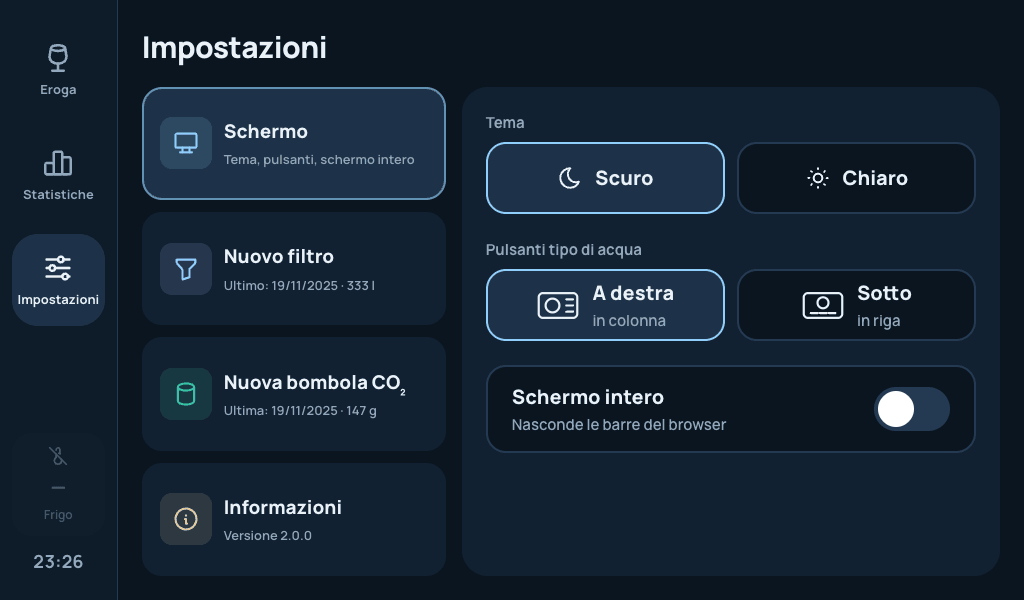
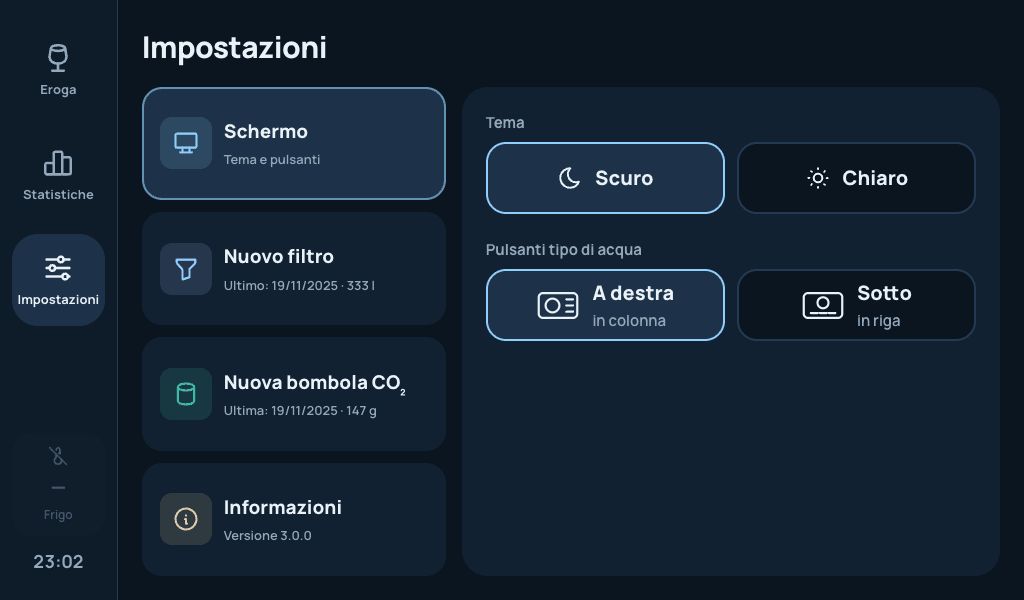
refactor: drop the full screen switch
The kiosk browser already runs full screen, so the Schermo intero switch
in the settings had nothing left to do.

diff --git a/src/components/client/settings/ScreenPanel.test.tsx b/src/components/client/settings/ScreenPanel.test.tsx
@@ -1,5 +1,4 @@
 import { useMantineColorScheme } from "@mantine/core";
-import { useFullscreen } from "@mantine/hooks";
 import { render, screen } from "@testing-library/react";
 import userEvent from "@testing-library/user-event";
 import { afterEach, beforeEach, describe, expect, test, vi } from "vitest";
@@ -8,23 +7,18 @@ import ScreenPanel from "@/components/client/settings/ScreenPanel";
 import { BUTTON_LAYOUT_ATTRIBUTE, BUTTON_LAYOUT_STORAGE_KEY } from "@/service/buttonLayout";
 
 vi.mock("@mantine/core", () => ({ useMantineColorScheme: vi.fn() }));
-vi.mock("@mantine/hooks", () => ({ useFullscreen: vi.fn() }));
 
 const setColorScheme = vi.fn();
-const toggleFullscreen = vi.fn();
 
-const mockScreen = (colorScheme: "dark" | "light", fullscreen: boolean) => {
+const mockScreen = (colorScheme: "dark" | "light") => {
     vi.mocked(useMantineColorScheme).mockReturnValue(
         { colorScheme, setColorScheme } as unknown as ReturnType<typeof useMantineColorScheme>
-    );
-    vi.mocked(useFullscreen).mockReturnValue(
-        { fullscreen, toggle: toggleFullscreen } as unknown as ReturnType<typeof useFullscreen>
     );
 };
 
 describe("ScreenPanel", () => {
     beforeEach(() => {
-        mockScreen("dark", false);
+        mockScreen("dark");
     });
 
     afterEach(() => {
@@ -54,23 +48,18 @@ describe("ScreenPanel", () => {
         expect(localStorage.getItem(BUTTON_LAYOUT_STORAGE_KEY)).toBe("row");
     });
 
-    test("toggles full screen", async () => {
-        const user = userEvent.setup();
+    test("marks the light theme when it is the current one", () => {
+        mockScreen("light");
         render(<ScreenPanel />);
 
-        const toggle = screen.getByRole("switch", { name: "Schermo intero Nasconde le barre del browser" });
-        expect(screen.getByRole("button", { name: "A destra in colonna" })).toBeInTheDocument();
-        expect(toggle).toHaveAttribute("aria-checked", "false");
-        await user.click(toggle);
-
-        expect(toggleFullscreen).toHaveBeenCalledOnce();
+        expect(screen.getByRole("button", { name: "Chiaro" })).toHaveAttribute("aria-pressed", "true");
+        expect(screen.getByRole("button", { name: "Scuro" })).toHaveAttribute("aria-pressed", "false");
     });
 
-    test("shows full screen as on when it already is", () => {
-        mockScreen("light", true);
+    test("offers no full screen switch: the kiosk browser is already full screen", () => {
         render(<ScreenPanel />);
 
-        expect(screen.getByRole("switch", { name: /Schermo intero/ })).toHaveAttribute("aria-checked", "true");
-        expect(screen.getByRole("button", { name: "Chiaro" })).toHaveAttribute("aria-pressed", "true");
+        expect(screen.queryByRole("switch")).not.toBeInTheDocument();
+        expect(screen.queryByText(/Schermo intero/)).not.toBeInTheDocument();
     });
 });

diff --git a/src/components/client/settings/ScreenPanel.module.css b/src/components/client/settings/ScreenPanel.module.css
@@ -27,11 +27,13 @@
     gap: var(--kiosk-space-3);
 }
 
-.choice,
-.switchRow {
+.choice {
+    min-height: 4.5rem;
     display: flex;
     align-items: center;
+    justify-content: center;
     gap: var(--kiosk-space-3);
+    padding: 0 var(--kiosk-space-4);
     box-sizing: border-box;
     border: 2px solid var(--kiosk-line);
     border-radius: var(--kiosk-radius-md);
@@ -45,24 +47,16 @@
     transition: border-color 150ms ease-out, background-color 150ms ease-out, transform 100ms ease-out;
 }
 
-.choice {
-    min-height: 4.5rem;
-    justify-content: center;
-    padding: 0 var(--kiosk-space-4);
-}
-
 .choice[aria-pressed="true"] {
     border-color: var(--kiosk-water-fredda-strong);
     background: var(--kiosk-surface-active);
 }
 
-.choice:active,
-.switchRow:active {
+.choice:active {
     transform: scale(0.98);
 }
 
-.choice:focus-visible,
-.switchRow:focus-visible {
+.choice:focus-visible {
     outline: 3px solid var(--kiosk-water-fredda-strong);
     outline-offset: 2px;
 }
@@ -96,41 +90,6 @@
     color: var(--kiosk-text-muted);
 }
 
-.switchRow {
-    min-height: 5.5rem;
-    justify-content: space-between;
-    padding: 0 var(--kiosk-space-5);
-}
-
-.switch {
-    flex-shrink: 0;
-    position: relative;
-    width: 4.75rem;
-    height: 2.75rem;
-    border-radius: var(--kiosk-radius-pill);
-    background: var(--kiosk-line);
-    transition: background-color 200ms ease-out;
-}
-
-.switchRow[aria-checked="true"] .switch {
-    background: var(--kiosk-water-frizzante);
-}
-
-.knob {
-    position: absolute;
-    top: 0.25rem;
-    left: 0.25rem;
-    width: 2.25rem;
-    aspect-ratio: 1;
-    border-radius: 50%;
-    background: #FFFFFF;
-    transition: transform 200ms ease-out;
-}
-
-.switchRow[aria-checked="true"] .knob {
-    transform: translateX(2rem);
-}
-
 @media (max-height: 34rem) {
     .panel {
         gap: var(--kiosk-space-3);
@@ -139,17 +98,10 @@
     .choice {
         min-height: 3.75rem;
     }
-
-    .switchRow {
-        min-height: 4.25rem;
-    }
 }
 
 @media (prefers-reduced-motion: reduce) {
-    .choice,
-    .switchRow,
-    .switch,
-    .knob {
+    .choice {
         transition: none;
     }
 }

diff --git a/src/components/client/settings/SettingsScreen.test.tsx b/src/components/client/settings/SettingsScreen.test.tsx
@@ -1,5 +1,4 @@
 import { useMantineColorScheme } from "@mantine/core";
-import { useFullscreen } from "@mantine/hooks";
 import { render, screen } from "@testing-library/react";
 import userEvent from "@testing-library/user-event";
 import { useRouter } from "next/navigation";
@@ -9,7 +8,6 @@ import SettingsScreen from "@/components/client/settings/SettingsScreen";
 import { insertFilter, insertTank } from "@/service/db";
 
 vi.mock("@mantine/core", () => ({ useMantineColorScheme: vi.fn() }));
-vi.mock("@mantine/hooks", () => ({ useFullscreen: vi.fn() }));
 vi.mock("next/navigation", () => ({ useRouter: vi.fn() }));
 vi.mock("@/service/db", () => ({ insertFilter: vi.fn(), insertTank: vi.fn() }));
 
@@ -37,9 +35,6 @@ describe("SettingsScreen", () => {
         vi.mocked(useMantineColorScheme).mockReturnValue(
             { colorScheme: "dark", setColorScheme: vi.fn() } as unknown as ReturnType<typeof useMantineColorScheme>
         );
-        vi.mocked(useFullscreen).mockReturnValue(
-            { fullscreen: false, toggle: vi.fn() } as unknown as ReturnType<typeof useFullscreen>
-        );
         vi.mocked(useRouter).mockReturnValue({ refresh } as unknown as ReturnType<typeof useRouter>);
         vi.mocked(insertFilter).mockResolvedValue(undefined);
         vi.mocked(insertTank).mockResolvedValue(undefined);
@@ -49,6 +44,7 @@ describe("SettingsScreen", () => {
         renderScreen();
 
         expect(menuItem(/^Schermo/)).toHaveAttribute("aria-pressed", "true");
+        expect(menuItem(/^Schermo/)).toHaveAccessibleName("Schermo Tema e pulsanti");
         expect(screen.getByText("Tema")).toBeInTheDocument();
     });
 

diff --git a/src/components/client/settings/ScreenPanel.tsx b/src/components/client/settings/ScreenPanel.tsx
@@ -1,7 +1,6 @@
 "use client";
 
 import { useMantineColorScheme } from "@mantine/core";
-import { useFullscreen } from "@mantine/hooks";
 import { IconMoon, IconSun } from "@tabler/icons-react";
 
 import styles from "@/components/client/settings/ScreenPanel.module.css";
@@ -52,7 +51,6 @@ const ChoiceGroup = ({ title, choices }: { title: string; choices: Choice[] }) =
 export default function ScreenPanel() {
     const { colorScheme, setColorScheme } = useMantineColorScheme();
     const [buttonLayout, setButtonLayout] = useButtonLayout();
-    const { fullscreen, toggle } = useFullscreen();
 
     return (
         <div className={styles.panel}>
@@ -93,16 +91,6 @@ export default function ScreenPanel() {
                     },
                 ]}
             />
-
-            <button type="button" role="switch" aria-checked={fullscreen} className={styles.switchRow} onClick={toggle}>
-                <span className={styles.choiceText}>
-                    <span className={styles.choiceLabel}>Schermo intero</span>{" "}
-                    <span className={styles.choiceDetail}>Nasconde le barre del browser</span>
-                </span>
-                <span className={styles.switch} aria-hidden>
-                    <span className={styles.knob} />
-                </span>
-            </button>
         </div>
     );
 }

diff --git a/src/components/client/settings/SettingsScreen.tsx b/src/components/client/settings/SettingsScreen.tsx
@@ -42,7 +42,7 @@ export default function SettingsScreen({ version, lastFilter, lastTank }: Settin
         {
             key: "schermo" as const,
             title: "Schermo",
-            subtitle: "Tema, pulsanti, schermo intero",
+            subtitle: "Tema e pulsanti",
             Icon: IconDeviceDesktop,
             accent: "var(--kiosk-water-fredda-strong)",
         },

diff --git a/CLAUDE.md b/CLAUDE.md
@@ -72,13 +72,13 @@ Every screen sits inside `shell/AppShell` (mounted by the root layout): a left `
 
 - `/` — `dispenser/Dispenser`: the `DispenseDial` (a round tap target with a CSS water animation, timer and estimated ml) and the `WaterTypeSelector`. Starting locks the navigation and the water type; a 1s guard ignores double taps; the valve closes by itself after `MAX_DISPENSE_SEC` (120s, `src/service/dispense.ts`); after a stop a summary shows for a few seconds. The water type buttons sit in a column on the right or in a row at the bottom, from the button layout preference.
 - `/stats` — a server page that loads everything and hands the computed results (`src/service/stats.ts`) to `stats/` cards: `MonthlyTiles`, `FilterGauge`, `TankCard` (client, steps through the tanks) and `FridgeCard`, all on one screen with no scrolling.
-- `/settings` — a server page loading the last filter and tank, rendering `settings/SettingsScreen`: a master-detail with `ScreenPanel` (theme, button layout, full screen; first and selected by default), two `KeyPadPanel`s (new filter in litres, new CO₂ tank in grams, each asking for confirmation before saving) and `InfoPanel` (app version from `next.config.ts`'s `publicRuntimeConfig`, sourced from `package.json`).
+- `/settings` — a server page loading the last filter and tank, rendering `settings/SettingsScreen`: a master-detail with `ScreenPanel` (theme and button layout; first and selected by default — there is no full screen switch, the kiosk browser already runs full screen), two `KeyPadPanel`s (new filter in litres, new CO₂ tank in grams, each asking for confirmation before saving) and `InfoPanel` (app version from `next.config.ts`'s `publicRuntimeConfig`, sourced from `package.json`).
 
 `preferences/useButtonLayout` keeps the button layout (`column` / `row`) in `localStorage`; `BUTTON_LAYOUT_SCRIPT` (in the layout `<head>`) mirrors it on `<html data-button-layout>` before the first paint, and the dispenser CSS lays itself out from that attribute.
 
 ### UI stack and styling
 
-Components are custom, styled with CSS Modules next to each component. Mantine v8 (`@mantine/core`, `@mantine/hooks`) is kept only as infrastructure: `MantineProvider` and its persisted color scheme (dark by default), `useMantineColorScheme` and `useFullscreen`. Since no Mantine component is rendered, `layout.tsx` imports only Mantine's base sheets (`baseline`, `default-css-variables`, `global`) instead of the whole `@mantine/core/styles.css` (~190 KB); a Mantine component added later needs its own `@mantine/core/styles/<Component>.css`. Design tokens (colors per scheme, spacing, radii, type scale, touch target size) are CSS custom properties in `src/app/tokens.css`, switched by Mantine's `data-mantine-color-scheme` attribute. Manrope is vendored in `src/app/fonts/` (one latin variable woff2, SIL OFL) and loaded with `next/font/local`; do not switch back to `next/font/google`, the Docker build must not depend on Google Fonts being reachable.
+Components are custom, styled with CSS Modules next to each component. Mantine v8 (`@mantine/core`) is kept only as infrastructure: `MantineProvider` and its persisted color scheme (dark by default) and `useMantineColorScheme`; `@mantine/hooks` is no longer imported by the app but stays installed as a peer dependency of `@mantine/core`. Since no Mantine component is rendered, `layout.tsx` imports only Mantine's base sheets (`baseline`, `default-css-variables`, `global`) instead of the whole `@mantine/core/styles.css` (~190 KB); a Mantine component added later needs its own `@mantine/core/styles/<Component>.css`. Design tokens (colors per scheme, spacing, radii, type scale, touch target size) are CSS custom properties in `src/app/tokens.css`, switched by Mantine's `data-mantine-color-scheme` attribute. Manrope is vendored in `src/app/fonts/` (one latin variable woff2, SIL OFL) and loaded with `next/font/local`; do not switch back to `next/font/google`, the Docker build must not depend on Google Fonts being reachable.
 
 Rules the redesign follows — keep them when changing screens:
 

diff --git a/README.md b/README.md
@@ -14,7 +14,7 @@ Captured at 1024×600, the resolution of the dispenser's display (`npm run scree
 | Water types in a row at the bottom | Light theme |
 | ![Stats: litres per water type this month, filter, CO₂ tank and fridge cards](screenshots/stats-dark.png) | ![Stats in the light theme](screenshots/stats-light.png) |
 | Stats | Stats, light theme |
-| ![Settings: theme, button layout and full screen](screenshots/settings-screen-dark.png) | ![Settings: keypad for a new filter](screenshots/settings-keypad-dark.png) |
+| ![Settings: theme and button layout](screenshots/settings-screen-dark.png) | ![Settings: keypad for a new filter](screenshots/settings-keypad-dark.png) |
 | Settings, screen | Settings, new filter keypad |
 | ![Settings: confirmation before registering a filter](screenshots/settings-confirm-dark.png) | ![Settings in the light theme](screenshots/settings-screen-light.png) |
 | Confirmation before registering | Settings, light theme |
@@ -27,7 +27,7 @@ Captured at 1024×600, the resolution of the dispenser's display (`npm run scree
 - **CO₂ tank (sparkling)**: from Settings you register a new tank with its weight in grams; the stats show the sparkling water poured from each tank, day by day.
 - **Fridge temperature**: a background process periodically reads the 1-Wire temperature sensor and stores the readings, shown in the rail and in the stats (last 12 hours). With `READ_TEMP_ENABLED=false` both stay visible but disabled.
 - All data is persisted in a local **SQLite** database (no external services required).
-- The app is designed to be shown full-screen on the dispenser's 1024×600 display (see *Schermo intero* in Settings), with a dark and a light theme.
+- The app is designed to be shown full-screen, in the browser's kiosk mode, on the dispenser's 1024×600 display, with a dark and a light theme.
 
 ## Configuration
 
